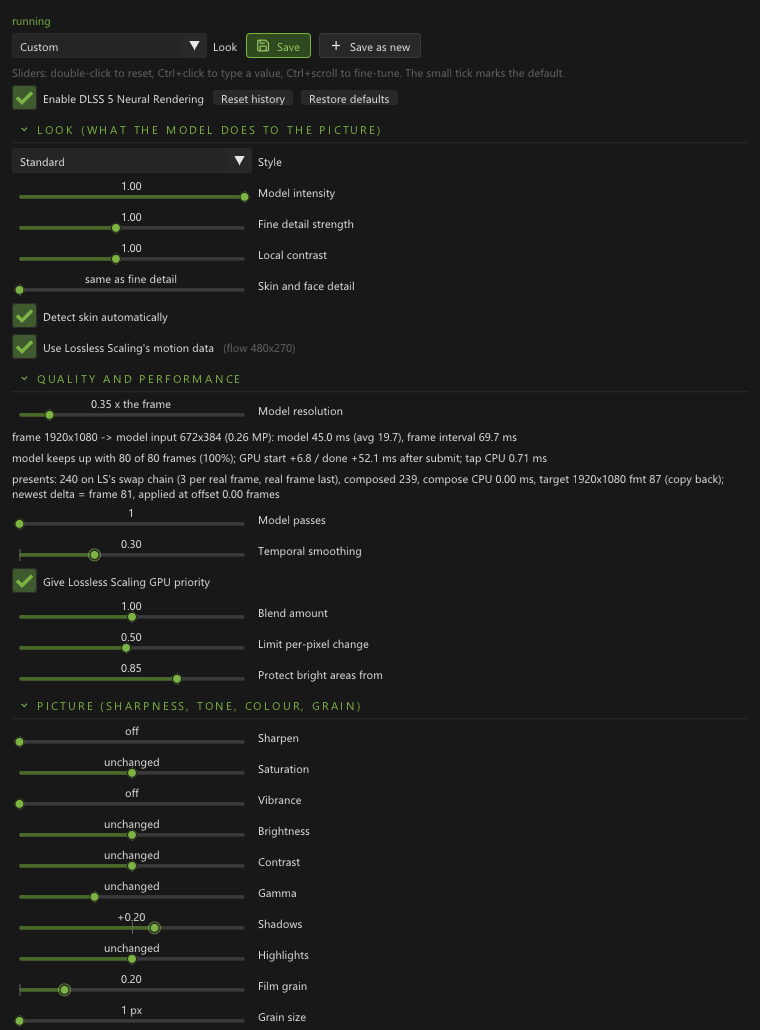
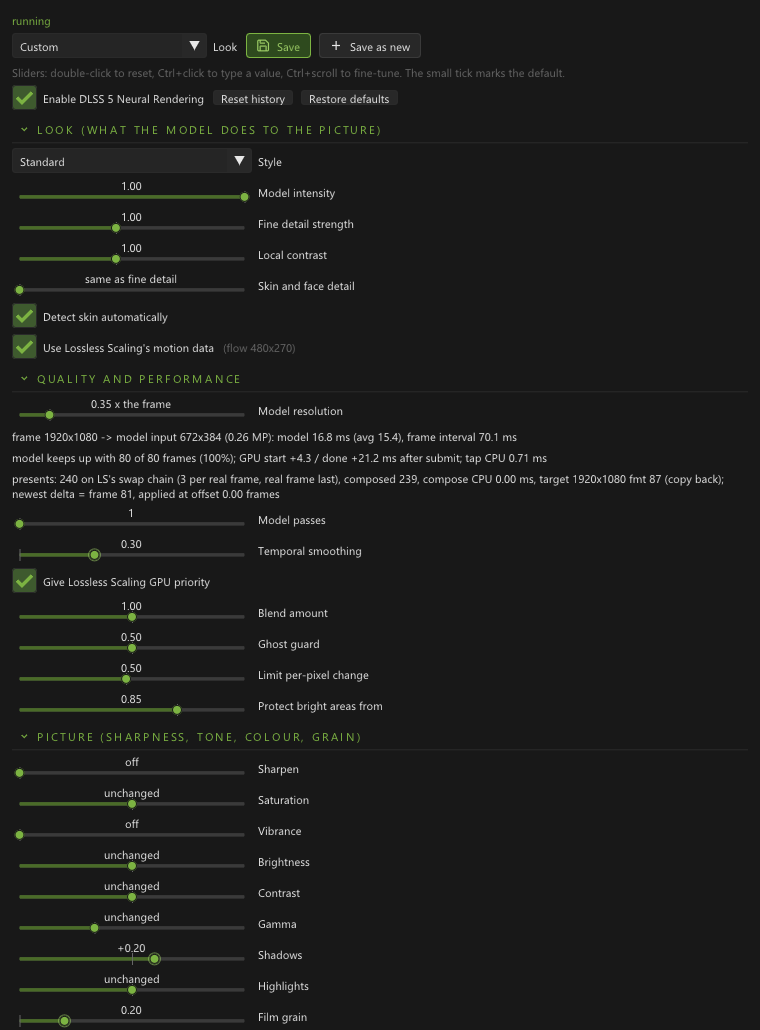
Neural Rendering: ghost guard
Fades the model's delta where LSFG's two motion fields disagree and as the delta ages, so the faint copy of the previous frame no longer trails
moving things. New slider (default 0.5, 0 = old behaviour), a Ghost guard diagnostic view, offline test scenarios.

Changed region(s): [[0.0, 0.6214, 0.3026, 0.8388], [0.3329, 0.6214, 0.4842, 0.9942], [0.0303, 0.8699, 0.2118, 1.0]]

diff --git a/addons/LSP-NeuralRender/src/addon/addon.cpp b/addons/LSP-NeuralRender/src/addon/addon.cpp
@@ -83,9 +83,9 @@ static void HudParse(const std::string& s, NrParams& p) {
 }
 static std::string PresetSerialize(const NrParams& p) {
     char b[1024];
-    snprintf(b, sizeof b, "passes=%u;style=%u;autoMask=%u;intensity=%g;localStructure=%g;localTone=%g;skinStructure=%g;useFlow=%d;workingScale=%g;composeIntensity=%g;maxDelta=%g;hiProtect=%g;sharpen=%g;saturation=%g;vibrance=%g;brightness=%g;contrast=%g;gamma=%g;shadows=%g;highlights=%g;grain=%g;grainSize=%g;deltaSmooth=%g;hudFeather=%g;hud=%s",
+    snprintf(b, sizeof b, "passes=%u;style=%u;autoMask=%u;intensity=%g;localStructure=%g;localTone=%g;skinStructure=%g;useFlow=%d;workingScale=%g;composeIntensity=%g;maxDelta=%g;hiProtect=%g;sharpen=%g;saturation=%g;vibrance=%g;brightness=%g;contrast=%g;gamma=%g;shadows=%g;highlights=%g;grain=%g;grainSize=%g;deltaSmooth=%g;ghostGuard=%g;hudFeather=%g;hud=%s",
              p.passes, p.style, p.useAutoMask, p.intensity, p.localStructure, p.localTone, p.skinStructure, p.useFlow ? 1 : 0, p.workingScale, p.composeIntensity, p.maxDelta, p.hiProtect, p.sharpen, p.saturation, p.vibrance, p.brightness, p.contrast, p.gamma,
-             p.shadows, p.highlights, p.grain, p.grainSize, p.deltaSmooth, p.hudFeather, HudSerialize(p).c_str());
+             p.shadows, p.highlights, p.grain, p.grainSize, p.deltaSmooth, p.ghostGuard, p.hudFeather, HudSerialize(p).c_str());
     return b;
 }
 static bool PresetApplyTo(const std::string& data, NrParams& p) {
@@ -105,7 +105,7 @@ static bool PresetApplyTo(const std::string& data, NrParams& p) {
         else if (k == "gamma") p.gamma = std::clamp(v, 0.5f, 2.0f);
         else if (k == "shadows") p.shadows = std::clamp(v, -1.0f, 1.0f); else if (k == "highlights") p.highlights = std::clamp(v, -1.0f, 1.0f);
         else if (k == "grain") p.grain = std::clamp(v, 0.0f, 1.0f); else if (k == "grainSize") p.grainSize = std::clamp(v, 1.0f, 4.0f);
-        else if (k == "deltaSmooth") p.deltaSmooth = std::clamp(v, 0.0f, 0.95f); else if (k == "hudFeather") p.hudFeather = std::clamp(v, 0.0f, 0.05f);
+        else if (k == "ghostGuard") p.ghostGuard = std::clamp(v, 0.0f, 1.0f); else if (k == "deltaSmooth") p.deltaSmooth = std::clamp(v, 0.0f, 0.95f); else if (k == "hudFeather") p.hudFeather = std::clamp(v, 0.0f, 0.05f);
         else if (k == "hud") HudParse(vs, p); else continue;
         any = true;
     }
@@ -238,9 +238,9 @@ static void LoadConfig() {
     c.p.style = CfgGetI("style", 0); c.p.useAutoMask = CfgGetI("autoMask", 1);
     c.p.intensity = CfgGetF("intensity", 1.0f); c.p.localStructure = CfgGetF("localStructure", 1.0f); c.p.localTone = CfgGetF("localTone", 1.0f); c.p.skinStructure = CfgGetF("skinStructure", -1.0f);
     c.p.useFlow = CfgGetI("useFlow", 1) != 0; c.p.flowUnit = CfgGetF("flowUnit", 2.0f);
-    c.p.workingScale = CfgGetF("workingScale", 0.35f); c.p.composeIntensity = CfgGetF("composeIntensity", 1.0f); c.p.maxDelta = CfgGetF("maxDelta", 0.5f);
+    c.p.workingScale = CfgGetF("workingScale", 0.35f); c.p.composeIntensity = CfgGetF("composeIntensity", 1.0f); c.p.maxDelta = CfgGetF("maxDelta", 0.5f); c.p.ghostGuard = std::clamp(CfgGetF("ghostGuard", 0.5f), 0.0f, 1.0f);
     c.p.hiProtect = CfgGetF("hiProtect", 0.85f); c.p.debugView = CfgGetI("debugView", 0);
-    if (c.p.debugView > 4) c.p.debugView = 0;
+    if (c.p.debugView > 5) c.p.debugView = 0;
     c.lsFirst = CfgGetI("lsFirst", 1) != 0;
     c.p.passes = (uint32_t)std::clamp(CfgGetI("passes", 1), 1, 4);
     c.p.sharpen = std::clamp(CfgGetF("sharpen", 0.0f), 0.0f, 1.0f);
@@ -275,7 +275,7 @@ static void SaveConfig() {
     CfgSetI("enabled", c.enabled); CfgSetI("style", c.p.style); CfgSetI("autoMask", c.p.useAutoMask);
     CfgSetF("intensity", c.p.intensity); CfgSetF("localStructure", c.p.localStructure); CfgSetF("localTone", c.p.localTone); CfgSetF("skinStructure", c.p.skinStructure);
     CfgSetI("useFlow", c.p.useFlow); CfgSetF("flowUnit", c.p.flowUnit);
-    CfgSetF("workingScale", c.p.workingScale); CfgSetF("composeIntensity", c.p.composeIntensity); CfgSetF("maxDelta", c.p.maxDelta);
+    CfgSetF("workingScale", c.p.workingScale); CfgSetF("composeIntensity", c.p.composeIntensity); CfgSetF("maxDelta", c.p.maxDelta); CfgSetF("ghostGuard", c.p.ghostGuard);
     CfgSetF("hiProtect", c.p.hiProtect); CfgSetI("debugView", c.p.debugView);
     CfgSetI("lsFirst", c.lsFirst);
     CfgSetI("passes", (int)c.p.passes); CfgSetF("sharpen", c.p.sharpen); CfgSetF("saturation", c.p.saturation); CfgSetF("vibrance", c.p.vibrance); CfgSetF("brightness", c.p.brightness); CfgSetF("contrast", c.p.contrast); CfgSetF("gamma", c.p.gamma); CfgSetI("hotkeys", c.hotkeys);
@@ -616,7 +616,7 @@ static void PresentBody(IDXGISwapChain* sc) {
     if (FAILED(sc->GetBuffer(0, IID_PPV_ARGS(&bb))) || !bb) return;
     uint32_t fw = 0, fh = 0; ID3D11Resource* flow = p.useFlow ? g_tap.NewestFlow(fw, fh) : nullptr;
     Compose11::Args a; a.target = bb; a.delta = dsrv; a.flow = flow; a.flowW = fw; a.flowH = fh; a.flowUnit = p.flowUnit;
-    a.offset = (float)(pi.target - (double)d); a.intensity = p.composeIntensity; a.maxDelta = p.maxDelta; a.hiProtect = p.hiProtect; a.debugView = p.debugView; a.isGen = pi.gen;
+    a.offset = (float)(pi.target - (double)d); a.intensity = p.composeIntensity; a.maxDelta = p.maxDelta; a.ghostGuard = p.ghostGuard; a.hiProtect = p.hiProtect; a.debugView = p.debugView; a.isGen = pi.gen;
     a.sharpen = p.sharpen; a.compare = (uint32_t)cmp; a.splitPos = g_splitPos; a.marker = marker;
     a.saturation = p.saturation; a.vibrance = p.vibrance;
     a.brightness = p.brightness; a.contrast = p.contrast; a.gamma = p.gamma;
@@ -675,6 +675,8 @@ LSPROXY_EXPORT void AddonRenderSettings() {
         { std::lock_guard<std::mutex> lk(g_cfgMu); for (auto& pr : g_presets) { names.push_back(pr.name); datas.push_back(pr.data); } }
         const std::string now = PresetSerialize(c.p);
         if (s_active >= (int)names.size()) s_active = -1;
+        // a look saved by an older version lacks newer keys; compare it as it would apply now, so it still reads as unchanged
+        for (auto& d : datas) { NrParams t = c.p; PresetApplyTo(d, t); d = PresetSerialize(t); }
         if (s_active < 0) for (size_t i = 0; i < datas.size(); ++i) if (datas[i] == now) { s_active = (int)i; break; }   // recognise the look already in use
         const bool modified = s_active >= 0 && datas[s_active] != now;
         const std::string label = s_active >= 0 ? names[s_active] + (modified ? "  (changed)" : "") : std::string("Custom");
@@ -797,6 +799,8 @@ LSPROXY_EXPORT void AddonRenderSettings() {
         Tip("Raises Lossless Scaling's own graphics work above the model's on the shared card, so frame generation and presenting are not delayed while the model runs. Recommended.");
         changed |= SL("Blend amount", &c.p.composeIntensity, 0.0f, 2.0f);
         Tip("How much of the model's change is added to each presented frame. 1 = exactly what the model made; 0 = none; above 1 exaggerates it.");
+        changed |= SL("Ghost guard", &c.p.ghostGuard, 0.0f, 1.0f, c.p.ghostGuard <= 0.001f ? "off" : "%.2f");
+        Tip("Stops the faint copy of the previous frame that can trail moving things. The model works on an older frame and its change is moved onto the current one with Lossless Scaling's motion data; where that motion data is unreliable (the edge of a moving object, something just uncovered) the change lands in the wrong place. This fades the change out there, and a little more the older it is, and leaves still and steadily moving areas alone. 0 = off, 0.5 = a good start, 1 = strongest. To see where it acts, set Diagnostic view to Ghost guard: dark areas are faded.");
         changed |= SL("Limit per-pixel change", &c.p.maxDelta, 0.05f, 1.0f);
         Tip("The most any pixel's colour may be changed (0..1 of full range). Lower is safer and subtler; it stops the model from making harsh jumps.");
         changed |= SL("Protect bright areas from", &c.p.hiProtect, 0.5f, 1.0f, c.p.hiProtect >= 0.999f ? "off" : "%.2f");
@@ -964,8 +968,8 @@ LSPROXY_EXPORT void AddonRenderSettings() {
       ImGui::Text("d3d11 hook: %d entry points   other-adapter dispatches: %llu   tapped device: %s", g_hookCount, (unsigned long long)g_otherDispatches, tdi.c_str()); }
     }
     if (lsp::SectionHeader("Advanced")) {
-        int dv = (int)c.p.debugView; const char* views[] = { "Result", "Original", "Delta x4", "Frame role (green real, red generated)", "LSFG flow" };
-        if (ImGui::Combo("Diagnostic view", &dv, views, 5)) { c.p.debugView = dv; changed = true; }
+        int dv = (int)c.p.debugView; const char* views[] = { "Result", "Original", "Delta x4", "Frame role (green real, red generated)", "LSFG flow", "Ghost guard (white = full effect)" };
+        if (ImGui::Combo("Diagnostic view", &dv, views, 6)) { c.p.debugView = dv; changed = true; }
         Tip("Shows what the addon is doing instead of the finished picture: the original frame, the model's change amplified 4x, which frames are real or generated, or the motion data. Leave on Result for normal use.");
         changed |= SL("Slow-model watchdog (ms)", &c.watchdogMs, 20.0f, 200.0f, "%.0f");
         Tip("If the model takes longer than this for 30 frames in a row, Neural Render switches itself off so it can never hurt your frame rate. It re-arms itself after 10 seconds, up to three times per session.");

diff --git a/addons/LSP-NeuralRender/src/addon/compose11.cpp b/addons/LSP-NeuralRender/src/addon/compose11.cpp
@@ -22,10 +22,11 @@ cbuffer CB : register(b0) {
     float  intensity;
     float  maxDelta;
     float  hiProtect;
-    uint   debugView;    // 0 result, 1 original, 2 delta x4, 3 frame role, 4 flow
+    uint   debugView;    // 0 result, 1 original, 2 delta x4, 3 frame role, 4 flow, 5 ghost guard weight
     uint   flags;        // bit0 flow bound, bit1 generated frame
     float2 uvPerUnit;    // one flow unit in uv
-    float2 pad;
+    float  ghostGuard;     // 0 = off, 1 = full: fade the delta where the two motion fields disagree and as it ages
+    float  flowPxPerUnit;  // flow-texture pixels in one flow unit
     float  sharpen;      // 0 = off
     uint   compare;      // 0 enhanced, 1 split (left half original), 2 original only
     float  splitPos;
@@ -79,7 +80,18 @@ void CSCompose(uint3 id : SV_DispatchThreadID) {
         // where this pixel's content was in frame d: forward along previous->current for a delta from before this
         // frame, back along current->previous for a delta from after it
         float2 suv = offset > 0.0 ? uv - offset * fl.zw * uvPerUnit : uv + offset * fl.xy * uvPerUnit;
-        float3 d = tDelta.SampleLevel(sLin, suv, 0).rgb;
+        // Ghost guard. The delta was made from an older frame and is moved here by LSFG's flow, so it lands in the wrong place
+        // where that flow is unreliable, which shows as a faint copy of the previous frame. LSFG gives two fields, current to
+        // previous (xy) and previous to current (zw); on a steady move one is the reverse of the other. Where their sum is
+        // large (an object edge, something just uncovered) the delta is faded out, and it is faded a little more the older it is.
+        float ghostW = 1.0;
+        if (ghostGuard > 0.001 && (flags & 1u) != 0u) {
+            const float disagree = length(fl.xy + fl.zw) * flowPxPerUnit;               // in flow-texture pixels
+            const float wCons = 1.0 - smoothstep(0.3, 1.5, disagree);
+            const float wAge = rcp(1.0 + 0.35 * max(0.0, offset - 1.0));               // a delta more than a frame old
+            ghostW = lerp(1.0, wCons * wAge, saturate(ghostGuard));
+        }
+        float3 d = tDelta.SampleLevel(sLin, suv, 0).rgb * ghostW;
         float wh = hiProtect < 0.999 ? 1.0 - smoothstep(hiProtect, 1.0, dot(o.rgb, kLuma)) : 1.0;
         d = clamp(d * intensity, -maxDelta, maxDelta) * wh;
         r = saturate(o.rgb + d);
@@ -128,6 +140,7 @@ void CSCompose(uint3 id : SV_DispatchThreadID) {
         else if (debugView == 2) r = saturate(0.5 + d * 4.0);
         else if (debugView == 3) r = saturate(r + ((flags & 2u) ? float3(0.15, 0, 0) : float3(0, 0.15, 0)));
         else if (debugView == 4) r = saturate(float3(0.5 + fl.xy / 16.0, 0.5));
+        else if (debugView == 5) r = float3(ghostW, ghostW, ghostW);   // white = the delta lands in full, dark = faded out
     }
     if ((flags & 4u) != 0u) {   // show the protected areas: a green tint and outline (display only)
         float inside = 0.0, edge = 0.0; const float px = 1.5 / (float)dstSize.x;
@@ -150,7 +163,7 @@ void CSCompose(uint3 id : SV_DispatchThreadID) {
 }
 )HLSL";
 
-struct ComposeCB { uint32_t dstW, dstH; float offset, intensity, maxDelta, hiProtect; uint32_t debugView, flags; float uvPerUnitX, uvPerUnitY, pad0, pad1; float sharpen; uint32_t compare; float splitPos; uint32_t marker; float saturation; float vibrance; float brightness; float contrast; float gamma; float shadows, highlights, grain; uint32_t grainSeed; float grainSize; uint32_t hudCount; float hudFeather; float hud[6][4]; };
+struct ComposeCB { uint32_t dstW, dstH; float offset, intensity, maxDelta, hiProtect; uint32_t debugView, flags; float uvPerUnitX, uvPerUnitY, ghostGuard, flowPxPerUnit; float sharpen; uint32_t compare; float splitPos; uint32_t marker; float saturation; float vibrance; float brightness; float contrast; float gamma; float shadows, highlights, grain; uint32_t grainSeed; float grainSize; uint32_t hudCount; float hudFeather; float hud[6][4]; };
 // The HLSL cbuffer packs into 16-byte rows: hud[] starts at byte 112 and the whole buffer is a multiple of 16
 // (CreateBuffer rejects any other size for a constant buffer).
 static_assert(offsetof(ComposeCB, gamma) == 80 && offsetof(ComposeCB, hud) == 112 && sizeof(ComposeCB) == 208, "ComposeCB must match the HLSL cbuffer layout");
@@ -236,6 +249,7 @@ bool Compose11::Run(ID3D11DeviceContext* ctx, const Args& a) {
     cb.hudCount = a.hudCount > 6u ? 6u : a.hudCount; cb.hudFeather = a.hudFeather; memcpy(cb.hud, a.hud, sizeof cb.hud);
     if (a.hudShow) cb.flags |= 4u;
     const float fu = a.flowUnit > 0.1f ? a.flowUnit : 2.0f;
+    cb.flowPxPerUnit = 1.0f / fu; cb.ghostGuard = flowSrv ? (a.ghostGuard < 0.0f ? 0.0f : a.ghostGuard > 1.0f ? 1.0f : a.ghostGuard) : 0.0f;
     cb.uvPerUnitX = (flowSrv && a.flowW) ? 1.0f / (fu * (float)a.flowW) : 0.0f; cb.uvPerUnitY = (flowSrv && a.flowH) ? 1.0f / (fu * (float)a.flowH) : 0.0f;
     D3D11_MAPPED_SUBRESOURCE m{}; if (SUCCEEDED(ctx->Map(m_cb, 0, D3D11_MAP_WRITE_DISCARD, 0, &m))) { memcpy(m.pData, &cb, sizeof cb); ctx->Unmap(m_cb, 0); }
 

diff --git a/addons/LSP-NeuralRender/tools/addon_host_test.cpp b/addons/LSP-NeuralRender/tools/addon_host_test.cpp
@@ -96,6 +96,9 @@ int main(int argc, char** argv) {
     std::string shotPath; int shotW = 760, shotH = 3400;
     for (int i = 4; i < argc; ++i) { if (!strncmp(argv[i], "shot=", 5)) shotPath = argv[i] + 5; else if (!strncmp(argv[i], "shotW=", 6)) shotW = atoi(argv[i] + 6); else if (!strncmp(argv[i], "shotH=", 6)) shotH = atoi(argv[i] + 6); }
     const bool shotMode = !shotPath.empty();
+    // flowsplit=1: the right half of the fake LSFG flow has both fields pointing the same way (they disagree), the left half agrees
+    bool flowSplit = false;
+    for (int i = 4; i < argc; ++i) if (!strncmp(argv[i], "flowsplit=", 10)) flowSplit = atoi(argv[i] + 10) != 0;
 
     // ImGui: headless normally; with shot= it renders through the DX11 backend into an offscreen target, in the manager's theme
     ImGuiContext* ctx = ImGui::CreateContext(); ImGuiIO& io = ImGui::GetIO(); io.DisplaySize = ImVec2(1280, 800); io.DeltaTime = 1.0f / 60; io.IniFilename = nullptr;
@@ -112,7 +115,7 @@ int main(int argc, char** argv) {
     FakeHost host; host.cfg["snippetPath"] = argc > 3 ? argv[3] : "C:\\Program Files (x86)\\Steam\\steamapps\\common\\Lossless Scaling\\nvngx_dlssnr.dll";
     for (int i = 4; i < argc; ++i) {   // extra key=value pairs override addon config (workingScale=0.5 debugView=3 ...)
         const char* eq = strchr(argv[i], '='); if (!eq) continue;
-        if (!strncmp(argv[i], "shot", 4)) continue;   // the host's own keys
+        if (!strncmp(argv[i], "shot", 4) || !strncmp(argv[i], "flowsplit", 9)) continue;   // the host's own keys
         host.cfg[std::string(argv[i], (size_t)(eq - argv[i]))] = eq + 1; printf("cfg %.*s = %s\n", (int)(eq - argv[i]), argv[i], eq + 1);
     }
     Init(&host, ctx, (void*)af, (void*)ff, ud);
@@ -174,7 +177,10 @@ int main(int argc, char** argv) {
     // Constant (+4, 0) units = 8 flow px to the left in the previous frame; zw = the reverse field.
     const UINT FLW = W / 4, FLH = H / 4;
     ID3D11Texture2D* flow16 = MakeTex(dev, FLW, FLH, DXGI_FORMAT_R16G16B16A16_FLOAT, true); ID3D11UnorderedAccessView* uFlow16 = uav(flow16); ID3D11ShaderResourceView* sPyr3 = srv(pyr[3]), * sFlow16 = srv(flow16);
-    ID3D11ComputeShader* csFlow16 = MakeCS(dev, "Texture2D<float> c:register(t4); RWTexture2D<float4> o:register(u0); [numthreads(8,8,1)] void main(uint3 id:SV_DispatchThreadID){ o[id.xy]=float4(4,0,-4,0)+c[id.xy/8].x*0; }");
+    const std::string flowSrc = flowSplit
+        ? "Texture2D<float> c:register(t4); RWTexture2D<float4> o:register(u0); [numthreads(8,8,1)] void main(uint3 id:SV_DispatchThreadID){ o[id.xy]=(id.x<" + std::to_string(FLW / 2) + " ? float4(4,0,-4,0) : float4(4,0,4,0))+c[id.xy/8].x*0; }"
+        : std::string("Texture2D<float> c:register(t4); RWTexture2D<float4> o:register(u0); [numthreads(8,8,1)] void main(uint3 id:SV_DispatchThreadID){ o[id.xy]=float4(4,0,-4,0)+c[id.xy/8].x*0; }");
+    ID3D11ComputeShader* csFlow16 = MakeCS(dev, flowSrc.c_str());
     if (!flow16 || !uFlow16 || !sPyr3 || !sFlow16 || !csFlow16) { printf("flow16 setup failed\n"); return 1; }
 
     uint64_t presents = 0, composedSeen = 0, checks = 0; double lastMean = 0;

diff --git a/tools/run_hosttest_matrix.py b/tools/run_hosttest_matrix.py
@@ -149,6 +149,26 @@ def scenario_smooth_passes(ctx, res, text, frame):
     res.check('3 passes with smoothing stay in a sane range', d < 40, 'mean abs change %.2f' % d)
 
 
+def _halves(frame, pat):
+    """Mean absolute change against the pattern in the left and right half (clear of the middle and the edges)."""
+    l = np.abs(frame[:, 16: W // 2 - 16] - pat[:, 16: W // 2 - 16]).mean()
+    r = np.abs(frame[:, W // 2 + 16: W - 16] - pat[:, W // 2 + 16: W - 16]).mean()
+    return l, r
+
+
+def scenario_ghost_off(ctx, res, text, frame):
+    l, r = _halves(frame, ctx['pat'])
+    ctx['ghost_off'] = (l, r)
+    res.check('guard off: both halves are enhanced', l > 0.3 and r > 0.3, 'left %.2f right %.2f' % (l, r))
+
+
+def scenario_ghost_on(ctx, res, text, frame):
+    l, r = _halves(frame, ctx['pat'])
+    lo, ro = ctx['ghost_off']
+    res.check('guard on: the half whose motion fields agree keeps its enhancement', l > 0.75 * lo, '%.2f vs %.2f without the guard' % (l, lo))
+    res.check('guard on: the half whose motion fields disagree is faded out', r < 0.25 * ro, '%.2f vs %.2f without the guard' % (r, ro))
+
+
 def scenario_none(ctx, res, text, frame):
     pass
 
@@ -164,6 +184,8 @@ SCENARIOS = [
     ('grain_inside_hud', ['grain=0.6', 'hud=0,0,0.5,1', 'hudFeather=0'], scenario_grain_hud),
     ('smooth', ['deltaSmooth=0.5'], scenario_smooth),
     ('smooth_passes3', ['deltaSmooth=0.5', 'passes=3'], scenario_smooth_passes),
+    ('ghost_off', ['flowsplit=1', 'ghostGuard=0'], scenario_ghost_off),
+    ('ghost_on', ['flowsplit=1', 'ghostGuard=1'], scenario_ghost_on),
     ('ui_shot', ['shot=@OUT@/ui_nr_panel.bmp', 'hud=0,0,0.3,0.17/0.86,0,1,0.24', 'deltaSmooth=0.3', 'grain=0.2', 'shadows=0.2', 'presetNames=Night raid|Bright zone', 'preset.Night raid=shadows=0.4;grain=0.15', 'preset.Bright zone=highlights=-0.3;sharpen=0.2'], scenario_none),
 ]
 

diff --git a/addons/LSP-NeuralRender/src/engine/nr_engine.h b/addons/LSP-NeuralRender/src/engine/nr_engine.h
@@ -31,6 +31,7 @@ struct NrParams {
     float workingScale = 0.35f;   // the frame is shrunk by this before the model sees it (the only cost lever)
     float composeIntensity = 1.0f;// how much of the delta lands
     float maxDelta = 0.5f;        // clamp on |delta|
+    float ghostGuard = 0.5f;      // compose side: 0 = off; fades the delta where LSFG's two motion fields disagree and as the delta ages
     float hiProtect = 0.85f;      // fade the delta as the source luminance rises from here to white (1 = off)
     uint32_t passes = 1;          // model runs per frame (1..4): each pass takes the previous result as its colour input
     float sharpen = 0.0f;         // compose side: contrast-adaptive sharpening of the presented frame, 0 = off
@@ -48,7 +49,7 @@ struct NrParams {
     uint32_t hudCount = 0;
     float hud[kMaxHud][4] = {};   // left, top, right, bottom, 0..1
     float hudFeather = 0.004f;    // soft edge of those rectangles, as a fraction of the screen
-    uint32_t debugView = 0;       // 0 result, 1 original, 2 delta x4, 3 frame role (real/generated), 4 LSFG flow
+    uint32_t debugView = 0;       // 0 result, 1 original, 2 delta x4, 3 frame role (real/generated), 4 LSFG flow, 5 ghost guard weight
 
     bool CreateKeysEqual(const NrParams& o) const { return workingScale == o.workingScale; }
     LspnrTuning Tuning() const { return LspnrTuning{ style, useAutoMask, 1u, intensity, localStructure, localTone, skinStructure }; }

diff --git a/addons/LSP-NeuralRender/src/addon/compose11.h b/addons/LSP-NeuralRender/src/addon/compose11.h
@@ -21,6 +21,7 @@ public:
         ID3D11Resource* flow = nullptr; uint32_t flowW = 0, flowH = 0; float flowUnit = 2.0f;   // LSFG flow (RGBA16F) or nullptr
         float offset = 0;                              // presented frame - d, in real frames
         float intensity = 1, maxDelta = 0.5f, hiProtect = 0.85f; uint32_t debugView = 0; bool isGen = false;
+        float ghostGuard = 0;                          // 0 = off; see the shader: fades the delta where the motion fields disagree and with its age
         float sharpen = 0;                             // 0 = off; CAS-style, on the composed frame
         float saturation = 1, vibrance = 0;            // colour: 1 / 0 = unchanged
         float brightness = 0, contrast = 1, gamma = 1; // tone: 0 / 1 / 1 = unchanged

diff --git a/addons/LSP-NeuralRender/docs/user-guide.md b/addons/LSP-NeuralRender/docs/user-guide.md
@@ -94,6 +94,7 @@ What each of these measurably does, knob by knob, is in [dlssnr-knobs.md](dlssnr
 | Model passes | 1 | How many times the model reworks each frame (1 to 4); every pass takes the previous result as its input, so the effect compounds. Each extra pass costs roughly another model run: watch the model time and the "keeps up with" line. If the model cannot keep up it skips frames and the last result is carried forward. Compare with the Before / after hotkey: more passes can look over-processed. |
 | Give Lossless Scaling GPU priority | on | Raises Lossless Scaling's D3D11 device to GPU thread priority +7 so LSFG's own passes and presents pre-empt the model on the shared GPU. Leave it on unless you are measuring. |
 | Blend amount | 1.00 | How much of the delta is added at present time. Above 1 exaggerates the model's edit. |
+| Ghost guard | 0.50 | Stops the faint copy of the previous frame that can trail moving things. The delta is made from an older frame and moved onto the current one with Lossless Scaling's motion data; where that data is unreliable (the edge of a moving object, something just uncovered) it lands in the wrong place. The guard fades the delta there, and a little more the older the delta is, and leaves still and steadily moving areas alone. 0 = off, 1 = strongest. *Diagnostic view > Ghost guard* shows where it acts (dark = faded). |
 | Limit per-pixel change | 0.50 | Clamp on the per-channel delta (0..1 scale). Limits how far one pixel may move. |
 | Protect bright areas from | 0.85 | Fades the delta out as the source luminance rises from here to white. Keeps the model from crushing bright areas. 1.00 turns it off. |
 | Temporal smoothing | off | Blends the model's change for this frame with its change for the previous one, moved along with the picture by Lossless Scaling's motion data. Calms shimmer and crawling in fine detail (distant roads, fences, foliage) at the price of a little softness or ghosting when the camera moves fast. 0 is off; try 0.3 first. Costs almost nothing (one work-resolution pass). |
@@ -229,7 +230,12 @@ addon uses the swap chain vtable precisely so they do.
 stages* shows how far each present gets. If *targeted* is zero the tap has not seen a real frame
 yet; if *with delta* is zero the model has not finished a run.
 
-**The image morphs or ghosts on generated frames.** Turn on *Debug view > LSFG flow* to confirm
+**A faint copy of the previous frame trails moving things (only with Neural Rendering on).** The delta comes from an older frame and is moved by
+Lossless Scaling's motion data, which is coarse and wrong at object edges. Raise *Ghost guard* (0.5 is the default; try 0.7 to 1), then lower *Limit per-pixel change*
+and *Fine detail strength*, and keep *Temporal smoothing* at 0 to 0.3. A smaller *Model resolution* makes the delta fresher. *Diagnostic view > Ghost guard* shows where
+the guard fades the delta; the *applied at offset* number under *Technical status* is the delta's age in frames.
+
+**The image morphs on generated frames.** Turn on *Debug view > LSFG flow* to confirm
 the flow is being seen (the panel shows its size next to the flow checkbox). If it reads "no flow
 texture seen yet", the tap did not identify LSFG's flow pass; try *Clear table* and let it
 re-learn.

diff --git a/addons/LSP-NeuralRender/CHANGELOG.md b/addons/LSP-NeuralRender/CHANGELOG.md
@@ -1,5 +1,12 @@
 # Changelog
 
+## Unreleased
+
+- **Ghost guard** (new slider, default 0.5, 0 = the old behaviour): fades the model's delta where LSFG's two motion fields disagree (object edges, newly
+  uncovered areas) and a little more the older the delta is, which removes the faint copy of the previous frame that trailed moving things. Diagnostic view
+  "Ghost guard" shows the weight. Saved looks made earlier still read as unchanged. Offline test: with a fake flow whose right half disagrees with itself, that half
+  is faded from 6.33 to 0.19 mean change and the agreeing half is untouched.
+
 ## 0.5.0-echo.1 (local fork, 2026-09-21)
 
 - Reports **live status and metrics** to the host (frame time, model cost, how often the model keeps up, GPU start time; a one-line status on the

diff --git a/CHANGELOG.md b/CHANGELOG.md
@@ -1,5 +1,10 @@
 # Changelog
 
+## Unreleased
+
+- **DLSS 5 Neural Rendering: Ghost guard.** New slider that fades the model's change where Lossless Scaling's motion data is unreliable and as the change ages, to remove the faint
+  copy of the previous frame that could trail moving things. Default 0.5; 0 restores the old behaviour. See the addon's changelog.
+
 ## 0.1.0 (first release)
 
 The first release of Echo Addon Manager as its own project, with a fresh history. It started from FrankBarretta's
